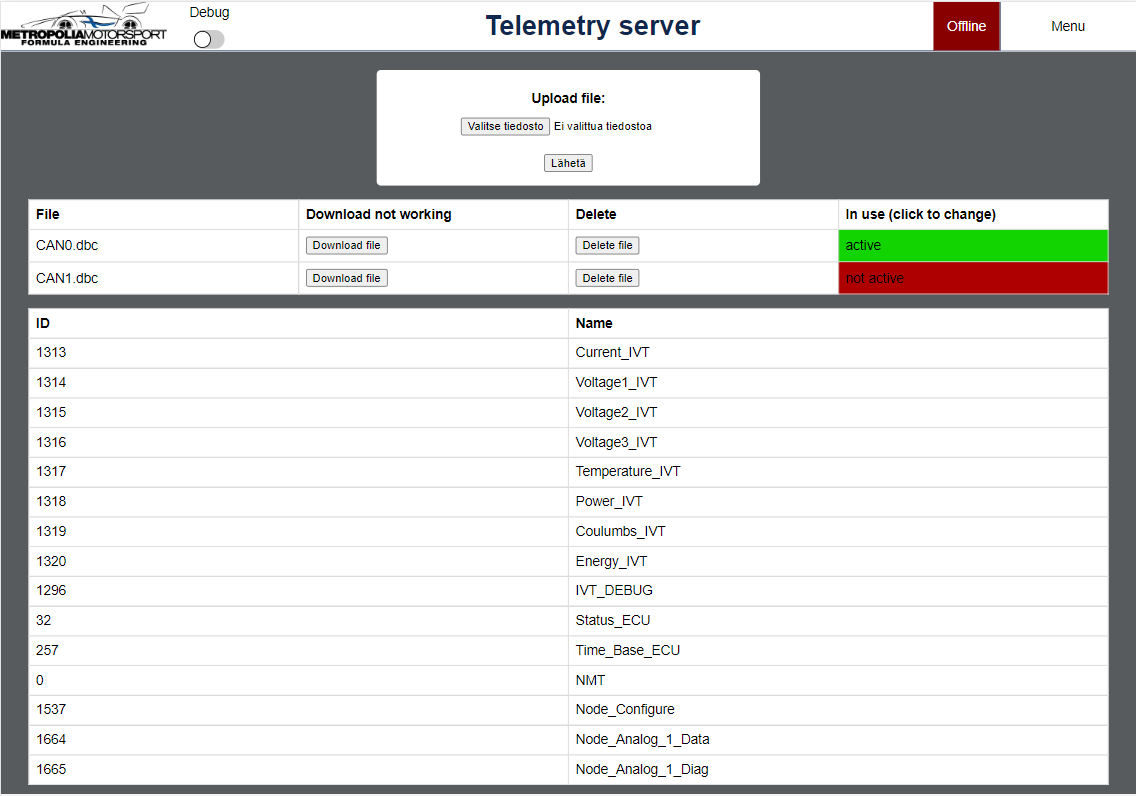
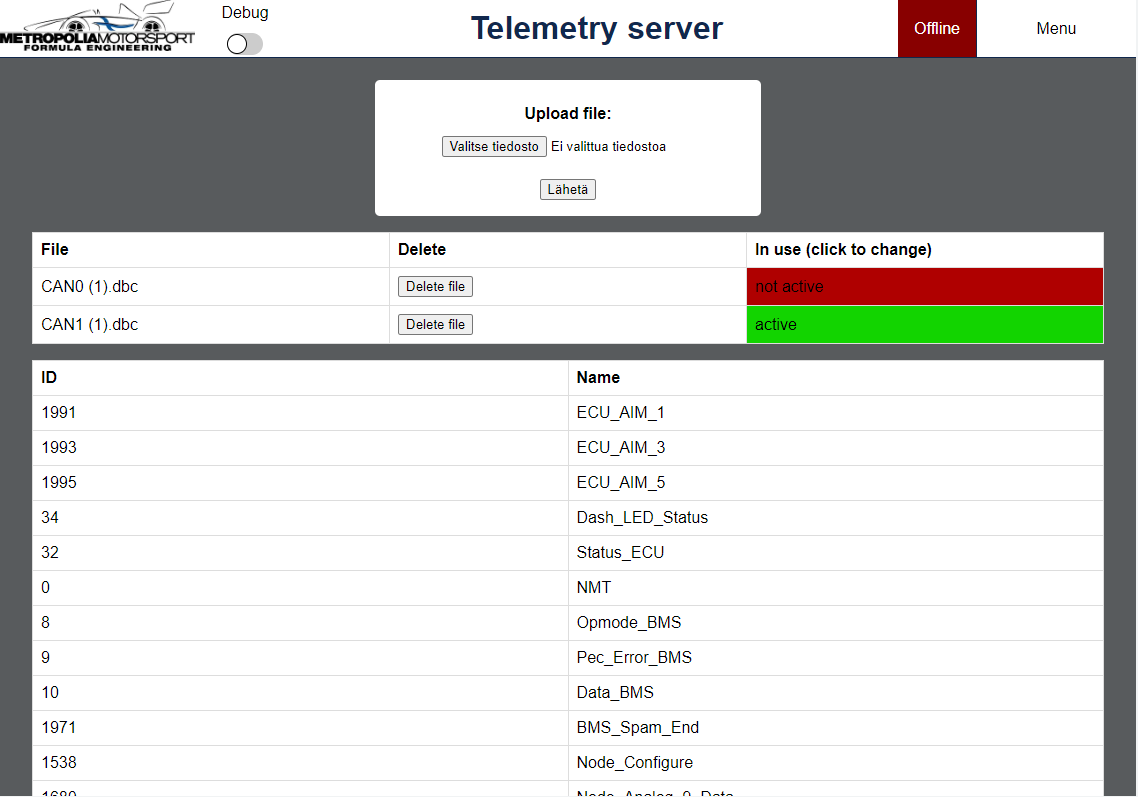
Fixed bug from settings

Changed region(s): [[0.0, 0.0, 1.0, 1.0]]

diff --git a/public/javascript/settings.js b/public/javascript/settings.js
@@ -21,8 +21,9 @@ async function deleteDbcFile(filename) {
             },
             body: JSON.stringify({ filename: filename })
         }).then(response => {
-            if (response.status === 500) alert("something went wrong!");
-            if (response.status === 204) alert("file removed from database!");
+            if (response.status === 500) alert('something went wrong!');
+            if (response.status === 401) alert('Not Authorized!');
+            if (response.status === 204) alert('file removed from database!');
         })
         // refreshes file table
     refreshFileTable();
@@ -30,50 +31,20 @@ async function deleteDbcFile(filename) {
 
 
 /**
- * @brief downloads the dbc file for users computer
- * @param {*} filename dbc file
- */
-async function downloadDbcFile(filename) {
-    await fetch('/settings/downloadDbcFile/?filename=' + filename, {
-        method: 'get',
-        headers: {
-            'Content-Type': 'application/json'
-        },
-    }).then(response => {
-        if (response.status === 500) alert("something went wrong!");
-        if (response.status === 204) alert("file laoded from database!");
-        console.log(response);
-    })
-}
-
-/**
  * Refreshes file table to show the dbc files and shows which file is in use. User can change
  * the active file by clicking the "inUse" element of the table.
  * @brief refreshes file table to show all the available dbc files
  */
-function refreshFileTable() {
+const refreshFileTable = () => {
     // creating table headers 
     let table = document.getElementById("fileTable");
-    let tr = document.createElement("tr");
 
-    let nameTh = document.createElement("th");
-    let downloadTh = document.createElement("th");
-    let deleteTh = document.createElement("th");
-    let inUseTh = document.createElement("th");
-
-    nameTh.innerHTML = "File";
-    downloadTh.innerHTML = "Download not working";
-    deleteTh.innerHTML = "Delete";
-    inUseTh.innerHTML = "In use (click to change)";
-
-    tr.appendChild(nameTh);
-    tr.appendChild(downloadTh);
-    tr.appendChild(deleteTh);
-    tr.appendChild(inUseTh);
-
-    // emptying the table before appending the header row
-    table.innerHTML = "";
-    table.appendChild(tr);
+    // emptying the table and creating header row
+    table.innerHTML = `<tr>
+                        <th>File</th>
+                        <th>Delete</th>
+                        <th>In use (click to change)</th>
+                      </tr>`;
 
     // Sends request to server to get all the dbc files
     fetch('settings/getDbcFiles')
@@ -87,6 +58,7 @@ function refreshFileTable() {
                 nametd.innerText = data.files[i].filename;
 
                 let deletetd = document.createElement("td");
+
                 //fixme disable button when (data.files[i].using == true)
                 deletetd.innerHTML = `<button
                                             value="delete" 
@@ -94,16 +66,6 @@ function refreshFileTable() {
                                             id="${data.files[i].filename}"
                                             onclick="deleteDbcFile(this.id)">
                                             Delete file
-                                        </button>`;
-
-
-                // creating download button to download the file
-                let downloadTd = document.createElement("td");
-                downloadTd.innerHTML = `<button
-                                            value="download"
-                                            id="${data.files[i].filename}"
-                                            onclick="downloadDbcFile(this.id)">
-                                            Download file
                                         </button>`;
 
                 // creating cell to see if file is in use
@@ -125,7 +87,6 @@ function refreshFileTable() {
 
                 // appending all cells to table
                 tr.appendChild(nametd);
-                tr.appendChild(downloadTd);
                 tr.appendChild(deletetd);
                 tr.appendChild(inUseTd);
                 table.appendChild(tr);
@@ -141,32 +102,24 @@ function refreshFileTable() {
 const changeDbcFile = async(filename) => {
     // sends request to server to change active file
     const resp = await fetch('/settings/changeDbcFile/?filename=' + filename);
-    const json = await resp.json();
-    console.log(json);
 
+    let json;
     switch (resp.status) {
         case 201:
+            json = await resp.json();
             alert(`Settings ID: ${json.result._id}`);
             break;
         case 500:
+            json = await resp.json();
             alert(json.error);
             break;
+        case 401:
+            alert('Not Authorized!');
+            return;
     }
 
     refreshFileTable();
     refreshCanTable();
-
-    /* .then(response => {
-         console.log(response);
-         // if everything went ok, refresh tables
-         if (response.status === 204) {
-
-         }
-         if (response.status === 201) {
-             
-         }
-         if (response.status === 500) alert("Something went wrong! can't change file");
-     })*/
 }
 
 /**
